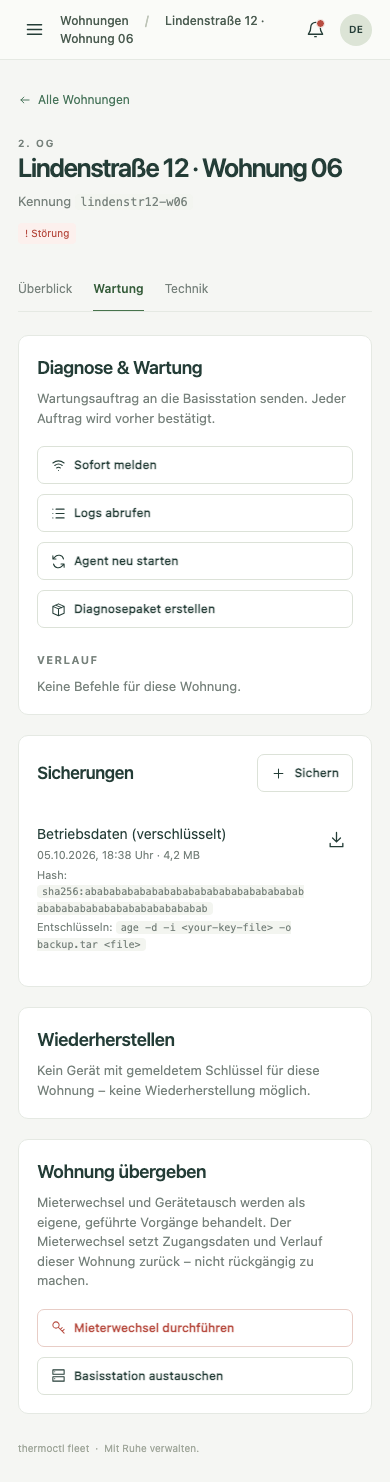
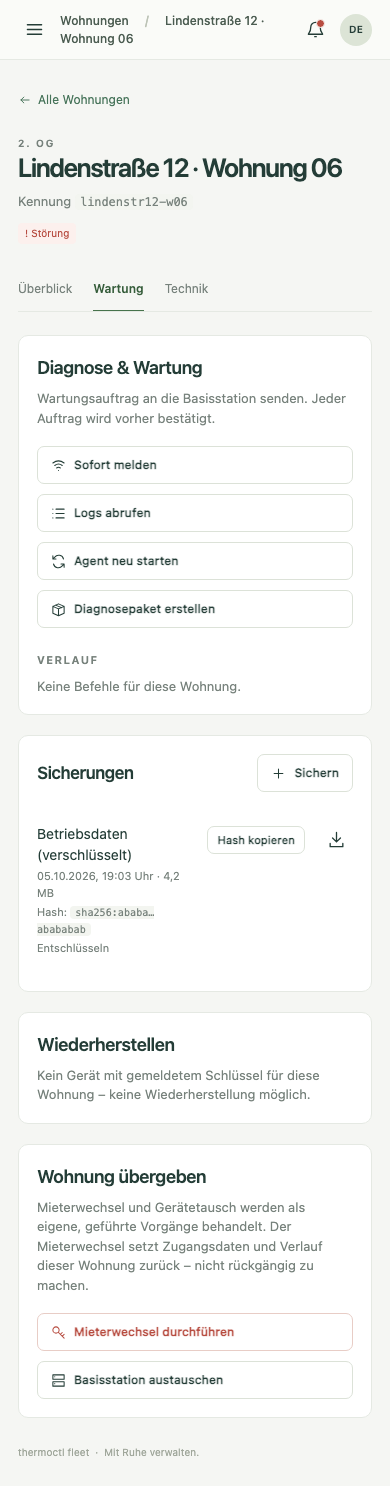
fix(ui): apartment page polish -- German severity labels, singular heartbeat, segmented bar, last contact, compact backup hash

diff --git a/fleet/templates/ui/apartment.html b/fleet/templates/ui/apartment.html
@@ -60,7 +60,7 @@
 </div>
 {% endif %}
 
-<div class="split">
+<div class="split align-start">
 
 <section class="panel" aria-labelledby="history-heading">
     <div class="section-head">
@@ -83,9 +83,12 @@
         {% endfor %}
     </div>
     <div class="progress-meta"><span>Jetzt</span><span>vor {{ detail.history_days }} Tagen</span></div>
+    {% if detail.last_contact_text %}
+    <div class="list-row"><span>Letzter Kontakt</span><b>{{ detail.last_contact_text }}</b></div>
+    {% endif %}
     {% for entry in detail.timeline %}
     <div class="list-row{% if entry.is_gap %} is-gap{% endif %}">
-        <span>{{ entry.label }}<small>{{ entry.when_text }}{% if entry.duration_text %} · {{ entry.duration_text }}{% endif %}{% if entry.heartbeat_count is not none %} · {{ entry.heartbeat_count }} Herzschläge{% endif %}</small></span>
+        <span>{{ entry.label }}<small>{{ entry.when_text }}{% if entry.duration_text %} · {{ entry.duration_text }}{% endif %}{% if entry.heartbeat_count is not none %} · {{ entry.heartbeat_count }} {{ "Herzschlag" if entry.heartbeat_count == 1 else "Herzschläge" }}{% endif %}</small></span>
         {% if entry.is_gap %}<span class="badge error">Keine Rückmeldung</span>{% elif entry.caught_up_count %}<span class="badge gray">{{ entry.caught_up_count }} nachgeliefert</span>{% endif %}
     </div>
     {% endfor %}
@@ -129,7 +132,7 @@
     {% for fault in detail.past_faults %}
     <div class="list-row">
         <span>{{ fault.kind_label }}<small>{{ fault.key }} · {{ fault.received_text }}</small></span>
-        <span class="badge gray">{{ fault.severity }}</span>
+        <span class="badge gray">{{ fault.severity_label or fault.severity }}</span>
     </div>
     {% endfor %}
     {% else %}
@@ -197,7 +200,7 @@
 {% endif %}
 {% set command_icons = {"report_now": "wifi", "fetch_logs": "list", "diagnostic_bundle": "box", "agent_restart": "update", "backup_now": "plus"} %}
 
-<div class="split">
+<div class="split align-start">
 
 <section class="panel" aria-labelledby="commands-heading">
     <h2 id="commands-heading">Diagnose &amp; Wartung</h2>
@@ -261,8 +264,11 @@
     {% if detail.backups %}
     {% for backup in detail.backups %}
     <div class="list-row">
-        <span>{{ backup.kind_label }}<small>{{ backup.created_text }} · {{ backup.size_text }}</small><small>Hash: <code class="id-text">{{ backup.content_hash }}</code></small>{% if backup.age_decrypt_command %}<small>Entschlüsseln: <code class="id-text">{{ backup.age_decrypt_command }}</code></small>{% endif %}</span>
+        <span>{{ backup.kind_label }}<small>{{ backup.created_text }} · {{ backup.size_text }}</small><small>Hash: <code class="id-text" title="{{ backup.content_hash }}">{{ backup.content_hash | shortdigest }}</code></small>{% if backup.age_decrypt_command %}<small><details class="inline-details"><summary>Entschlüsseln</summary><code class="id-text">{{ backup.age_decrypt_command }}</code></details></small>{% endif %}</span>
+        <span class="row-actions-tight">
+        <button type="button" class="button small copy-button" data-copy="{{ backup.content_hash }}" aria-label="Hash kopieren">Hash kopieren</button>
         <a class="icon-button" href="/ui/apartments/{{ apartment_id | urlpath }}/backups/{{ backup.backup_id | urlpath }}/download" aria-label="{{ backup.kind_label }} vom {{ backup.created_text }} herunterladen">{{ icons.icon("download") }}</a>
+        </span>
     </div>
     {% endfor %}
     {% else %}
@@ -418,7 +424,7 @@
 <script src="/ui/static/vendor/age-encryption.vendor.js"></script>
 <script src="/ui/static/restore_form.js"></script>
 {% endif %}
-{% if detail and active_tab == "technik" and detail.desired_state %}
+{% if detail and ((active_tab == "technik" and detail.desired_state) or (active_tab == "wartung" and detail.backups)) %}
 <script src="/ui/static/copy.js"></script>
 {% endif %}
 {% endblock %}

diff --git a/fleet/static/ui/fleet-ui.css b/fleet/static/ui/fleet-ui.css
@@ -221,8 +221,11 @@ code.id-text{background:#f3f5f0;border-radius:4px;padding:1px 5px}
 .range-links a{font-size:11px;color:var(--muted);padding:3px 8px;border-radius:5px}
 .range-links a:hover{background:#eef2ea}
 .range-links a.active{background:var(--mint);color:#365d3b;font-weight:600}
-.health-bars.proportional i{flex:0 1 auto;min-width:4px}
-.health-bars.proportional{margin-top:6px}
+.health-bars.proportional i{flex:0 1 auto;min-width:4px;border-radius:0}
+.health-bars.proportional{margin-top:6px;gap:0;height:30px;border-radius:3px;overflow:hidden;-webkit-mask-image:repeating-linear-gradient(90deg,#000 0 calc(100% / 42 - 4px),transparent 0 calc(100% / 42));mask-image:repeating-linear-gradient(90deg,#000 0 calc(100% / 42 - 4px),transparent 0 calc(100% / 42))}
+.split.align-start{align-items:start}
+.inline-details summary{cursor:pointer;display:inline}
+.inline-details code{display:block;margin-top:4px}
 .health-bars.proportional .tl-w-1{flex-basis:1%}
 .health-bars.proportional .tl-w-2{flex-basis:2%}
 .health-bars.proportional .tl-w-3{flex-basis:3%}

diff --git a/tests/test_ui_apartment.py b/tests/test_ui_apartment.py
@@ -913,6 +913,11 @@ def test_every_section_renders_from_real_stored_data(
     # past faults (from the events table) -- never titel/text
     assert "Fensteralarm" in overview_body  # derived kind from the "fenster:" prefix
     assert "fenster:bad" in overview_body
+    # The severity is shown as a German label, never the raw protocol tag,
+    # and the last heartbeat's age is the "Letzter Kontakt" row.
+    assert '<span class="badge gray">Warnung</span>' in overview_body
+    assert ">warnung<" not in overview_body
+    assert "Letzter Kontakt" in overview_body
     assert "MARKER_TITEL_SHOULD_NOT_APPEAR" not in overview_body
     assert "MARKER_TEXT_SHOULD_NOT_APPEAR" not in overview_body
     # battery/signal
@@ -1277,3 +1282,25 @@ def test_tenant_change_is_a_marked_destructive_link_to_its_confirmation_page(
     )
     section = response.text[response.text.index('id="tenant-change-heading"') :]
     assert "<form" not in section.split("</section>")[0]
+
+
+def test_severity_labels_cover_the_known_severities_and_keep_unknown_ones() -> None:
+    from fleet.ui_apartment import SEVERITY_LABELS
+
+    assert SEVERITY_LABELS["stoerung"] == "Störung"
+    assert SEVERITY_LABELS.get("neu", "neu") == "neu"
+
+
+def test_single_heartbeat_is_not_pluralised(
+    client: TestClient, storage: Storage, password: str, totp_secret: str, user_id: int
+) -> None:
+    storage.set_apartment_token(APARTMENT, secrets.token_urlsafe(32))
+    storage.save_heartbeat(
+        APARTMENT, _make_heartbeat(APARTMENT, sent_at=RECENT_TIME), RECENT_TIME
+    )
+    _login(client, password, totp_secret)
+
+    body = client.get(f"/ui/apartments/{APARTMENT}?ansicht=ueberblick").text
+
+    assert "1 Herzschlag<" in body
+    assert "1 Herzschläge" not in body

diff --git a/fleet/ui_apartment.py b/fleet/ui_apartment.py
@@ -720,12 +720,22 @@ class PerDeviceDisplay:
     signal_quality: int | None
 
 
+# Human labels of the event severities (`protocol/events.py`); an unknown
+# value is shown as sent, never dropped.
+SEVERITY_LABELS: dict[str, str] = {
+    "stoerung": "Störung",
+    "warnung": "Warnung",
+    "info": "Hinweis",
+}
+
+
 @dataclass(frozen=True)
 class PastFaultDisplay:
     kind_label: str
     key: str
     severity: str
     received_text: str
+    severity_label: str = ""
 
 
 @dataclass(frozen=True)
@@ -843,6 +853,9 @@ class ApartmentDetail:
     desired_state_history: list[DesiredStateDisplay]
     desired_state_outcome: DesiredStateOutcomeDisplay | None
     desired_state_active: bool
+    # Age of the newest stored heartbeat ("vor 3 Min."), `None` before the
+    # first one -- real data, shown as the draft's "Letzter Kontakt" row.
+    last_contact_text: str | None = None
 
 
 def _close_run(run_rows: list[HeartbeatHistoryEntry], now: datetime) -> tuple[TimelineEntry, float]:
@@ -1156,6 +1169,7 @@ def build_apartment_detail(
             key=event.schluessel,
             severity=event.schwere,
             received_text=f"vor {_relative_duration(now, event.received_at)}",
+            severity_label=SEVERITY_LABELS.get(event.schwere, event.schwere),
         )
         for event in storage.list_events_for_apartment(apartment_id, since)
     ]
@@ -1270,6 +1284,7 @@ def build_apartment_detail(
         desired_state_history=desired_state_history_displays,
         desired_state_outcome=desired_state_outcome_display,
         desired_state_active=False,
+        last_contact_text=f"vor {_relative_duration(now, latest.received_at)}",
     )
 
 
